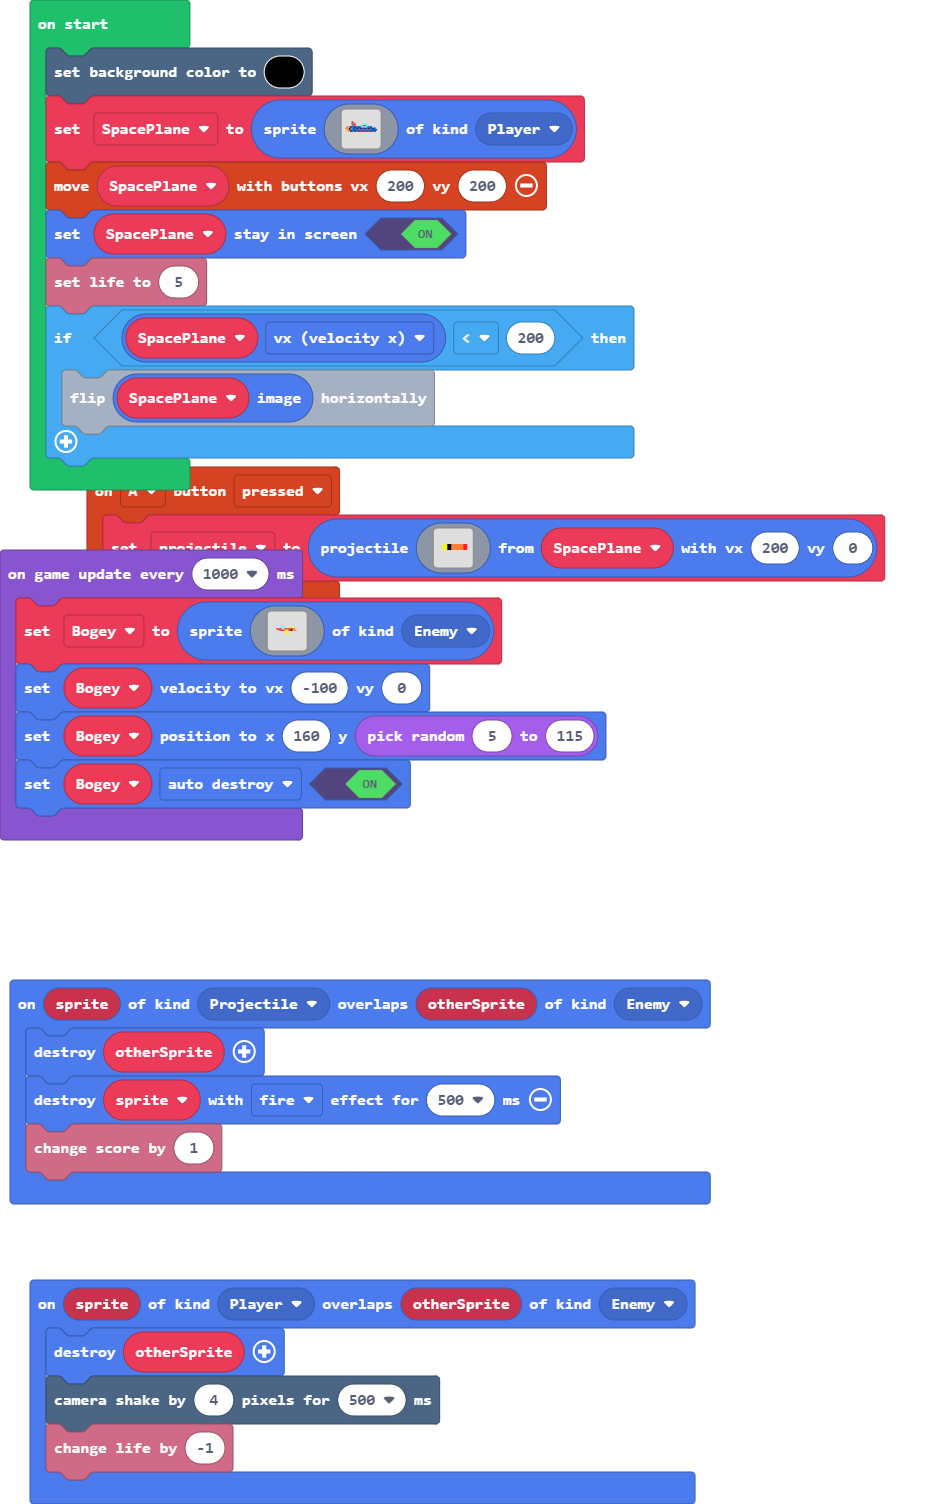
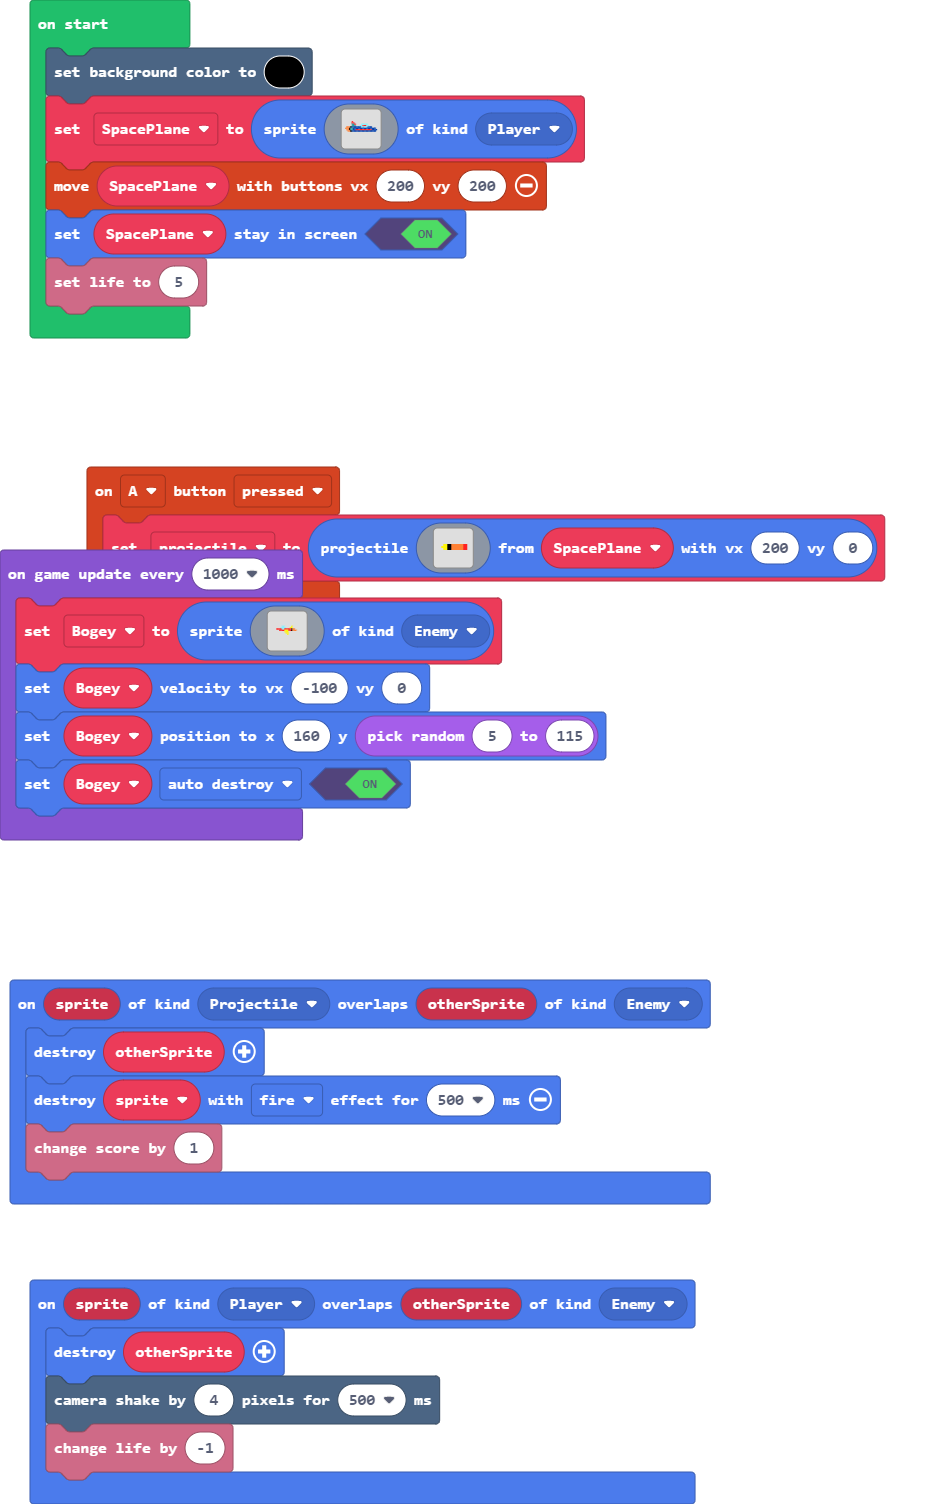
Update main.blocks, main.ts

Changed region(s): [[0.0309, 0.1875, 0.6809, 0.3438]]

diff --git a/main.ts b/main.ts
@@ -36,9 +36,6 @@ SpacePlane = sprites.create(assets.image`galgaPlane1`, SpriteKind.Player)
 controller.moveSprite(SpacePlane, 200, 200)
 SpacePlane.setStayInScreen(true)
 info.setLife(5)
-if (SpacePlane.vx < 200) {
-    SpacePlane.image.flipX()
-}
 game.onUpdateInterval(1000, function () {
     Bogey = sprites.create(assets.image`galgaEnemy1`, SpriteKind.Enemy)
     Bogey.setVelocity(-100, 0)
